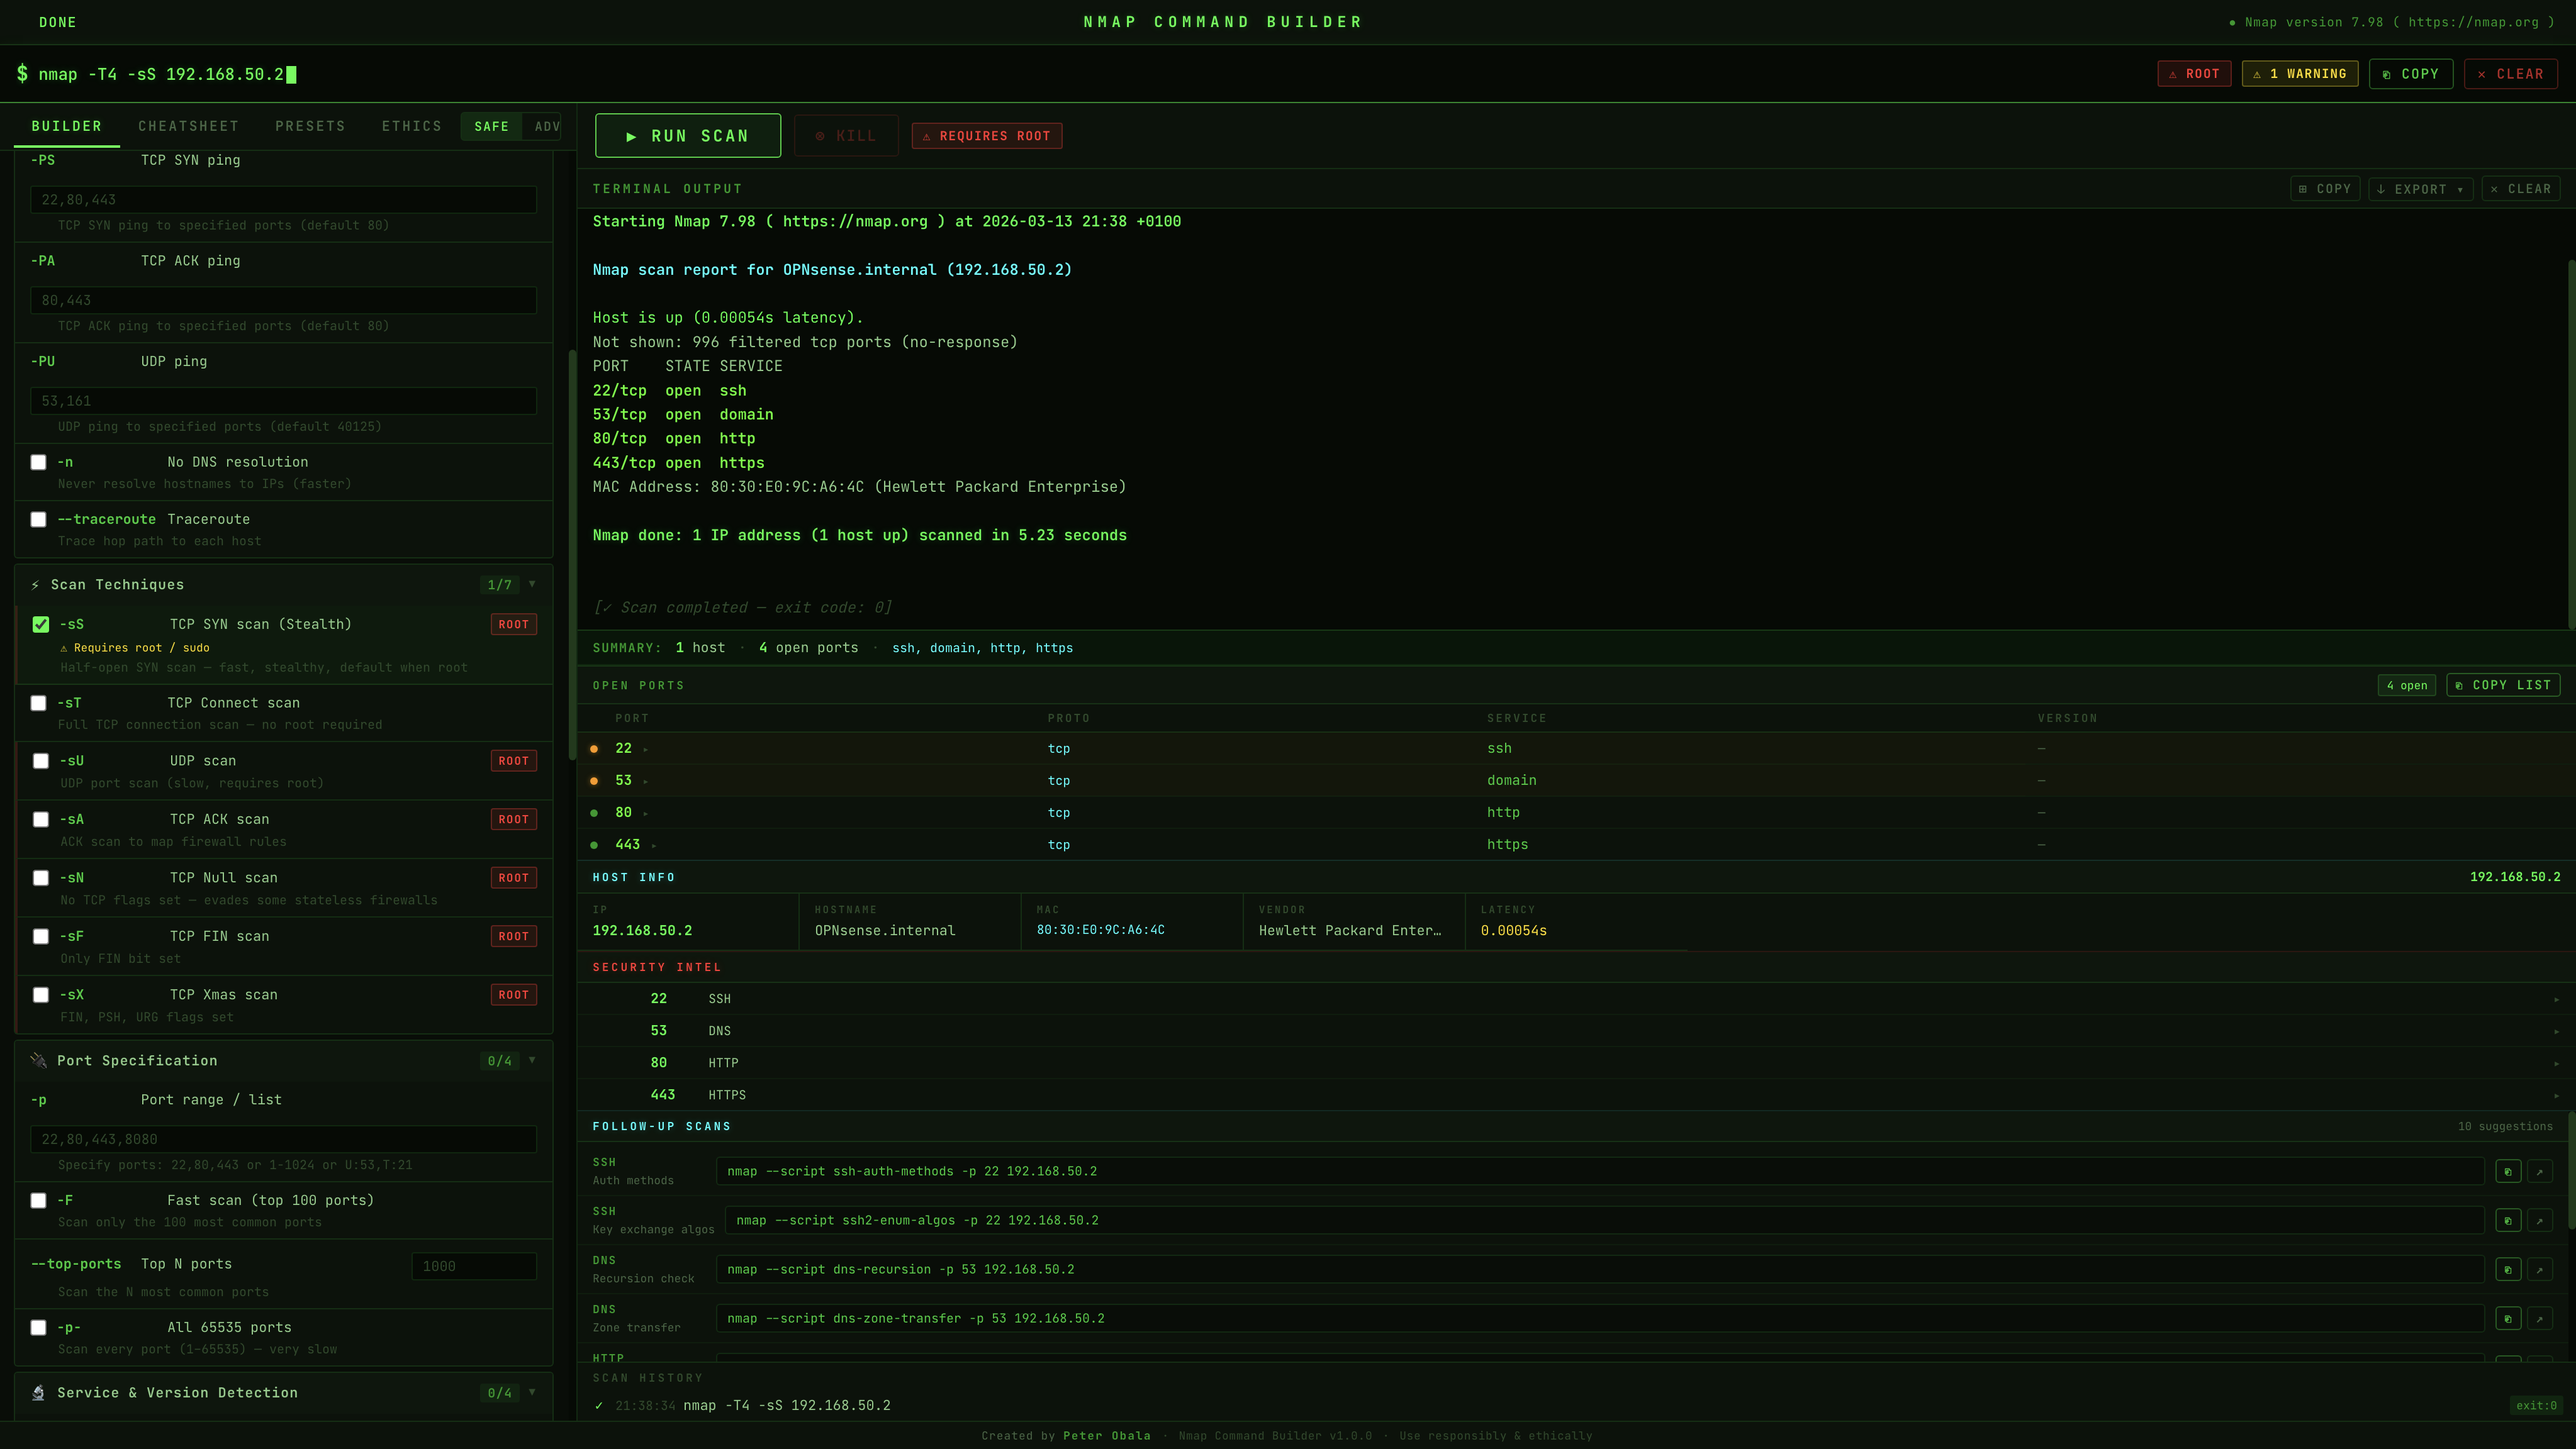
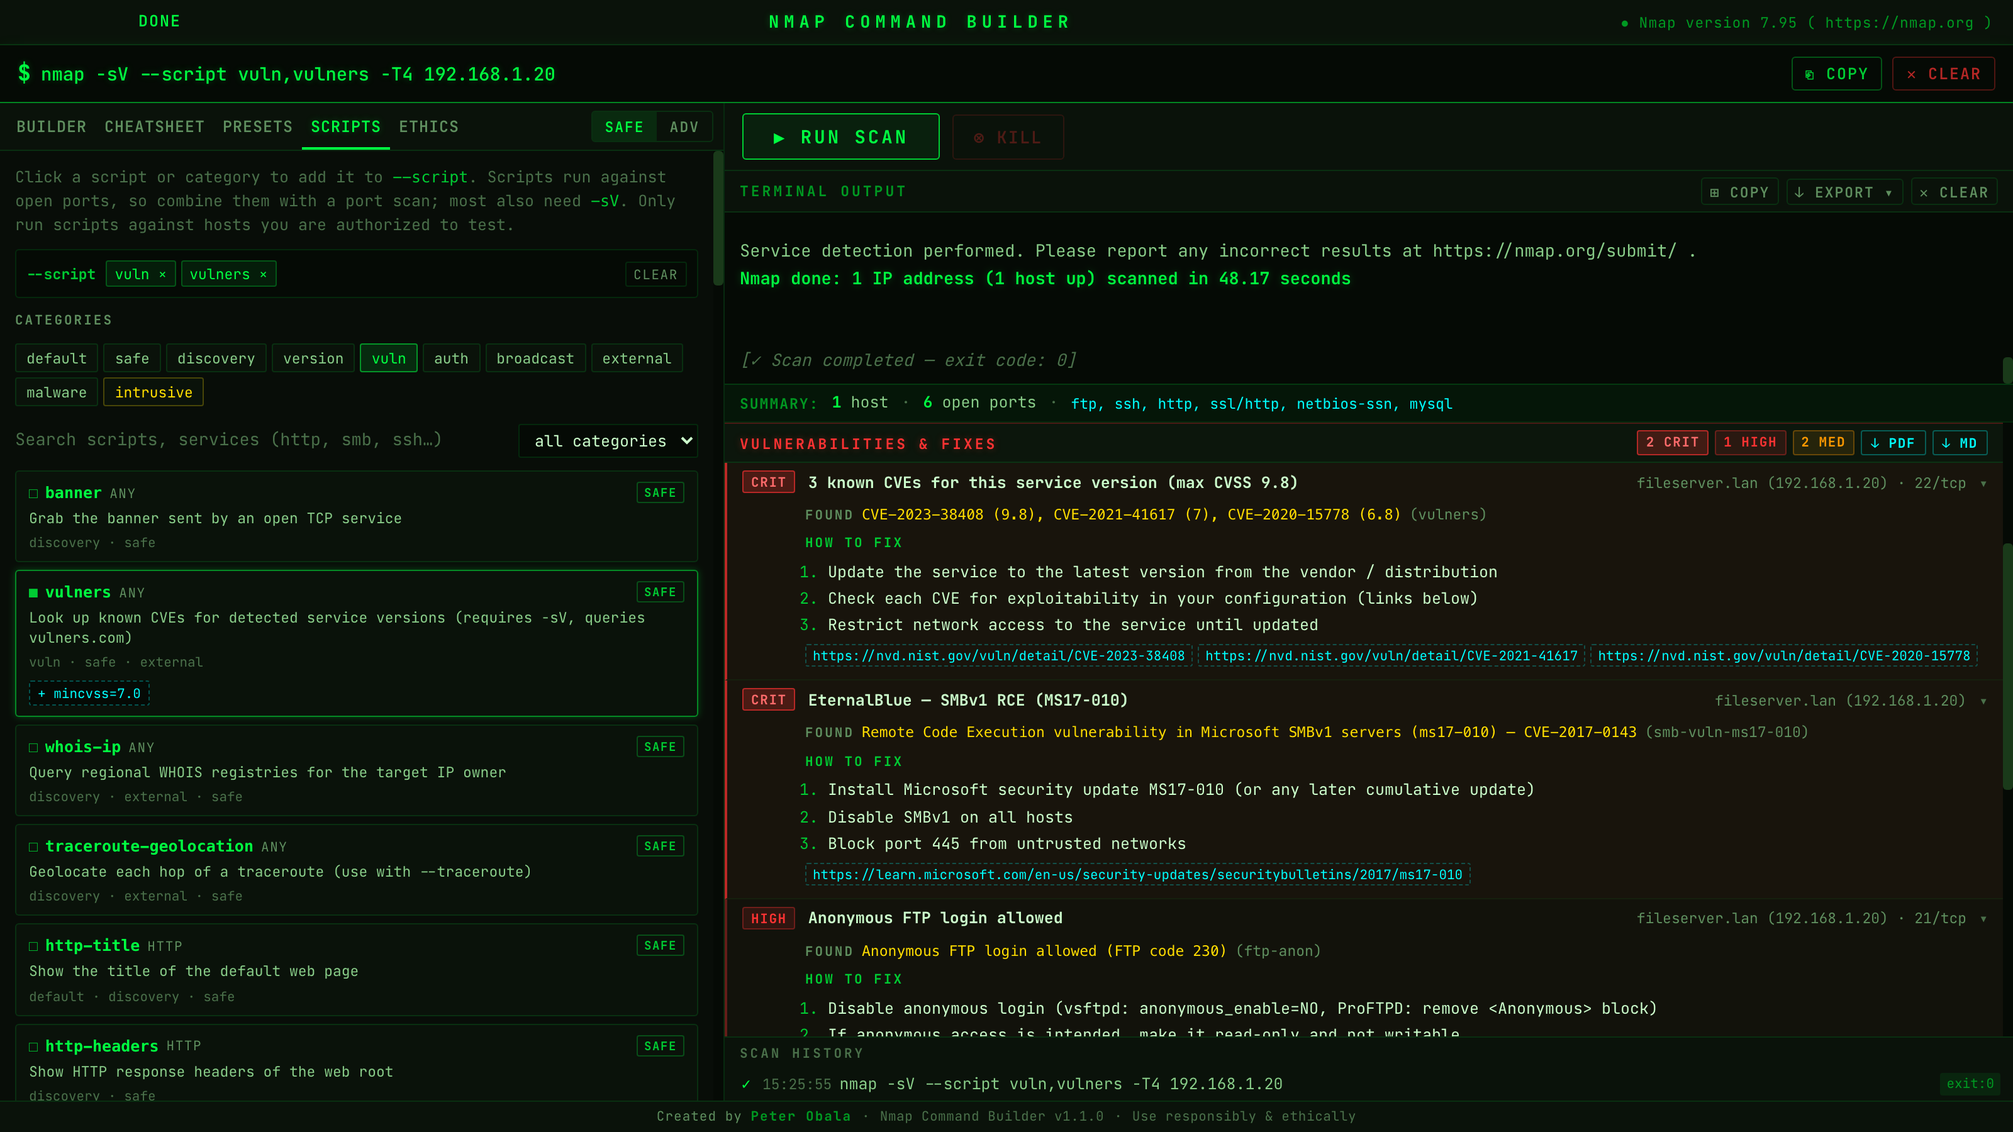
Release v1.1.0
- Bump version to 1.1.0 (package.json, footer) with a test that keeps
  the footer version in sync with package.json
- New README screenshot (demo data only: 192.168.1.20 / fileserver.lan)
- CHANGELOG.md; release workflow uses the matching section as the
  GitHub release description

diff --git a/src/App.js b/src/App.js
@@ -653,7 +653,7 @@ export default function App() {
           Created by <span className="app-footer__author">Peter Obala</span>
         </span>
         <span className="app-footer__sep">·</span>
-        <span className="app-footer__item">Nmap Command Builder v1.0.0</span>
+        <span className="app-footer__item">Nmap Command Builder v1.1.0</span>
         <span className="app-footer__sep">·</span>
         <span className="app-footer__item">Use responsibly &amp; ethically</span>
       </footer>

diff --git a/src/version.test.js b/src/version.test.js
@@ -1,0 +1,9 @@
+// Verzia v patičke aplikacie musi sediet s package.json (kontrola pri vydani).
+const fs = require('fs');
+const path = require('path');
+
+test('footer version matches package.json', () => {
+  const { version } = JSON.parse(fs.readFileSync(path.join(__dirname, '..', 'package.json'), 'utf8'));
+  const app = fs.readFileSync(path.join(__dirname, 'App.js'), 'utf8');
+  expect(app).toContain(`Nmap Command Builder v${version}<`);
+});

diff --git a/CHANGELOG.md b/CHANGELOG.md
@@ -1,0 +1,31 @@
+# Changelog
+
+## 1.1.0 — 2026-11-21
+
+### New
+- **Vulnerabilities & Fixes panel** — after a scan, NSE script output is analysed for known issues (EternalBlue / MS17-010, Heartbleed, POODLE, Shellshock, vsftpd backdoor, anonymous FTP, SMBv1, SMB signing, open SMTP relay, weak TLS, risky HTTP methods, open DNS recursion, MySQL empty password, CVEs from `vulners`, …) and each finding shows step-by-step remediation
+- **"How to fix" hardening steps** for 31 risky ports in Security Intel
+- **PDF and Markdown reports** — summary, findings with fixes, open ports per host, hardening recommendations and raw output
+- **NSE script library** (SCRIPTS tab) — 71 curated scripts and all categories with search, risk badges and one-click `--script` / `--script-args`
+- **10 new scan presets** — CVE Lookup, TLS/SSL Audit, SMB Security Check, Remote Access Audit, Database Exposure, DNS Server Check, Web Vulnerability Scan, Firewall Mapping, Credential Brute-force and Dangerous Vuln Checks (last two in Advanced mode only)
+- **Risk labels for all presets** — LOW / NOISY / INTRUSIVE with an explanation
+- **Automatic local network detection** pre-fills the target
+
+### Improved
+- Larger font and higher-contrast text across the app
+- Wider left panel that scales with the window
+- Result panels scroll together, the terminal always stays visible
+
+### Fixed
+- CIDR target validation
+- Security Intel risk level (HIGH / MED badges and sorting)
+- SAFE / ADV toggle hidden behind the right panel
+
+### Security
+- Nmap flags are whitelisted in the main process; `--script` accepts names only, not file paths
+- IPC accepted only from the app window; navigation, new windows and permission requests blocked
+- PDF reports rendered with JavaScript disabled and a strict CSP; scan data is HTML-escaped
+
+## 1.0.0
+
+- Initial release: visual Nmap command builder, live scan output, presets, cheatsheet, post-scan panels and exports (TXT / JSON / CSV)

diff --git a/README.md b/README.md
@@ -31,6 +31,7 @@ Built with **Electron + React** and designed for system administrators, cybersec
 - [Security Model](#security-model)
 - [Dependency Security Notes](#dependency-security-notes)
 - [Responsible Use](#responsible-use)
+- [Changelog](CHANGELOG.md)
 - [Roadmap](#roadmap)
 - [Author](#author)
 - [License](#license)
